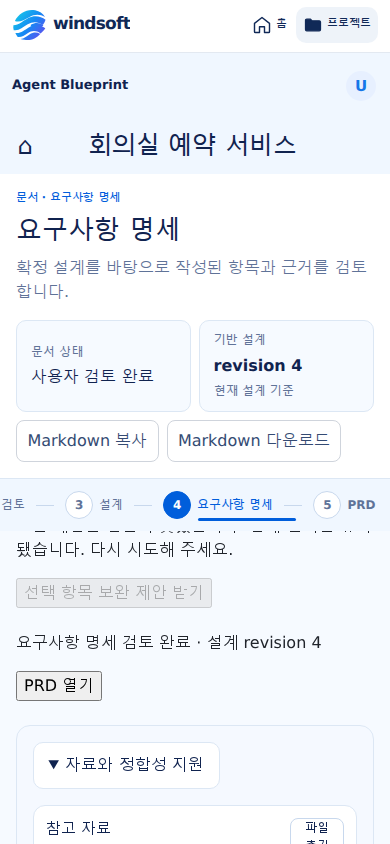
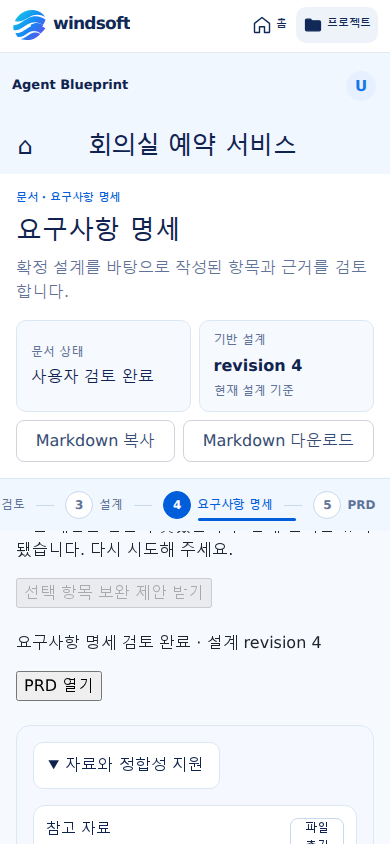
Refresh responsive document flow evidence

Changed region(s): [[0.0615, 0.4929, 0.8923, 0.5545]]

diff --git a/docs/delivery/evidence/UIR-PR-06/README.md b/docs/delivery/evidence/UIR-PR-06/README.md
@@ -1,6 +1,6 @@
 # UIR-PR-06 visual evidence
 
-These screenshots use synthetic local browser fixtures with generic, non-product-specific Korean section markdown. The requirements overview, review-action, readiness, UIR-PR-06, and document-editing state screenshots were regenerated from source commit `9c67b72f5d8c8b2ca0ee25305d7b37ef4619f10f` at 1440×900 desktop and 390×844 mobile CSS viewports. The direct-edit impact dialog was recaptured at application source commit `94bfdce` with Korean-only synthetic document text. The final affected Playwright matrix passed 30/30. The main requirements overview shows a `review_required` document with the Korean `요구사항 명세` title, 11 individually navigable localized sections, linked requirement data, step 4 current, and PRD as separate next step 5. The enabled review action uses the workspace primary color; because it follows the selected 11 sections, it is below the initial viewport and is captured after scrolling. The complete evidence set, including interaction-state captures, is stored under `docs/delivery/evidence/UIR-PR-06/`; raw Playwright artifacts remain under `.pr-artifacts/UIR-PR-06/`.
+These screenshots use synthetic local browser fixtures with generic, non-product-specific Korean section markdown. The requirements overview, review-action, readiness, UIR-PR-06, and document-editing state screenshots were recaptured from application source commit `0801b11` at 1440×900 desktop and 390×844 mobile CSS viewports. The direct-edit impact dialog uses Korean-only synthetic document text; its internal document identifier is not exposed. The final affected Playwright matrix passed 30/30. The main requirements overview shows a `review_required` document with the Korean `요구사항 명세` title, 11 individually navigable localized sections, linked requirement data, step 4 current, and PRD as separate next step 5. The enabled review action uses the workspace primary color; because it follows the selected 11 sections, it is below the initial viewport and is captured after scrolling. Export actions use a separate header row at these widths so both buttons remain fully visible. The complete evidence set, including interaction-state captures, is stored under `docs/delivery/evidence/UIR-PR-06/`; raw Playwright artifacts remain under `.pr-artifacts/UIR-PR-06/`.
 
 Primary references: [Requirements dashboard](../../../blueprint-design/회의실%20예약%20서비스%20요구사항%20대시보드.png) and [PRD dashboard](../../../blueprint-design/한국어%20PRD%20대시보드%20화면.png), both 1586×992. Template captures were used only to verify requirements draft/overview/detail and PRD generation states absent from the primary images.
 
@@ -38,7 +38,7 @@ The evidence set also includes direct editor and impact-dialog states, source-re
 
 ![Document impact dialog desktop](document-impact-dialog-desktop-1440x900.png)
 
-![Document impact dialog mobile](document-impact-dialog-mobile-390x844.png) The PRD editor mobile capture and desktop/mobile impact dialogs were regenerated at PR #55 HEAD; the dialog fixtures use Korean text, and affected document IDs are summarized as a Korean count while persisted IDs remain unchanged. Unrelated evidence states were retained.
+![Document impact dialog mobile](document-impact-dialog-mobile-390x844.png) The PRD editor mobile capture and desktop/mobile impact dialogs were regenerated at PR #55 HEAD `0801b11`; the dialog fixtures use Korean text, and affected document IDs are summarized as a Korean count while persisted IDs remain unchanged. Unrelated evidence states were retained.
 
 ## Primary-reference anchor comparison
 
@@ -48,13 +48,13 @@ Approximate measurements use the source and refreshed render screenshots without
 | --- | ---: | ---: | ---: |
 | Left application rail edge | x≈253 / 1586 (16.0%) | x≈248 / 1440 (17.2%) | +1.2 percentage points |
 | Table of contents width | ≈241 / 1586 (15.2%) | ≈230 / 1440 (16.0%) | +0.8 percentage points |
-| Stage navigation top | y≈214 / 992 (21.6%) | y≈218 / 900 (24.2%) | +2.6 percentage points; shared project-title/save row remains above it |
-| First section card top | y≈263 / 992 (26.5%) | y≈275 / 900 (30.6%) | +4.1 percentage points, within the 5% position tolerance |
+| Stage navigation top | y≈214 / 992 (21.6%) | y≈266 / 900 (29.6%) | +8.0 percentage points; a second metadata row keeps both export actions fully visible at 1440px |
+| First section card top | y≈263 / 992 (26.5%) | y≈323 / 900 (35.9%) | +9.4 percentage points; the added export row is a documented layout exception to keep both actions reachable |
 | First section card width | ≈1021 / 1586 (64.4%) | ≈892 / 1440 (61.9%) | −2.5 percentage points |
 | First section card height | ≈119 / 992 (12.0%) | ≈115 / 900 (12.8%) | +0.8 percentage points |
 | Review-completion action | Near the bottom of the five-card reference | After all 11 sections; below the initial viewport at 1440×900 and 390×844 | Deliberate 11-section choice; enabled action is reached and captured after scrolling |
 
-The anchor comparison uses the review-pending state. Its 11-section layout intentionally keeps one navigable card for each canonical section, placing the review action after the full list. The screenshots and test show that the blue action is enabled and reachable after scrolling on both viewports. Cards follow the reference hierarchy with an icon, Korean title and markdown summary, stored sync-status badge, content and linked requirement area, and detail action. Status derives from stored section sync state, and linked requirements are matched from source IDs. Additional markdown lines and linked requirement data appear in the content area; when neither exists, the concise empty state reads `연결된 항목 없음`. No sample product claims are added. The rendered card tops are about 36px below the proportional source coordinate at a 900px viewport height. The shared project title/save row and numbered stage navigation remain visible; the duplicate document work-panel title was removed. The requirements route marks `요구사항 명세` step 4 current; PRD remains a separate next step 5. The active stage label is automatically revealed in the horizontally scrollable navigation on mobile. All 11 canonical section keys appear with Korean presentation labels and persisted data is unchanged.
+The anchor comparison uses the review-pending state. Its 11-section layout intentionally keeps one navigable card for each canonical section, placing the review action after the full list. At 1440px the export buttons occupy a separate metadata row because their combined intrinsic width clipped the download control in the original single-row layout; the updated E2E test verifies both button bounds remain inside the viewport. This increases the header height and shifts the stage rail and section list down as recorded above. The screenshots and test show that the blue action is enabled and reachable after scrolling on both viewports. Cards follow the reference hierarchy with an icon, Korean title and markdown summary, stored sync-status badge, content and linked requirement area, and detail action. Status derives from stored section sync state, and linked requirements are matched from source IDs. Additional markdown lines and linked requirement data appear in the content area; when neither exists, the concise empty state reads `연결된 항목 없음`. No sample product claims are added. The rendered card tops are about 36px below the proportional source coordinate at a 900px viewport height. The shared project title/save row and numbered stage navigation remain visible; the duplicate document work-panel title was removed. The requirements route marks `요구사항 명세` step 4 current; PRD remains a separate next step 5. The active stage label is automatically revealed in the horizontally scrollable navigation on mobile. All 11 canonical section keys appear with Korean presentation labels and persisted data is unchanged.
 
 Requirements and PRD use one document H1, H2 for overview and selected document sections, and H3 for nested section cards and requirement items. The semantic heading correction retains the prior rendered font scale. Sections marked conflict provide resolution guidance and do not expose direct edit or AI patch-target controls.
 

diff --git a/docs/tasks/UIR-PR-06/test-results.md b/docs/tasks/UIR-PR-06/test-results.md
@@ -12,6 +12,13 @@ The independent review P1s were addressed before re-review: all Requirements/PRD
 
 Source commit: `9c67b72f5d8c8b2ca0ee25305d7b37ef4619f10f`, based on PR #55 previous head `ebefae5f215b72b9db9c9d80717b15dcc4d64019`. The final affected Playwright matrix passed **30/30** at 1440×900 and 390×844; this includes a computed-style assertion for the review CTA. `npm run build` and `git diff --check` passed. The source-upload unit failure and Mermaid runtime result are unchanged from the post-merge run recorded below. The screenshots in `docs/delivery/evidence/UIR-PR-06/` were generated from the same source tree as this commit.
 
+
+## Export visibility correction — 2026-10-25
+
+The fresh reviewer found the Markdown download action clipped beyond the right edge of the 1440px workspace. The metadata grid now places export actions on a second row at intermediate desktop widths. The E2E flow asserts both export buttons are visible and that their bounds remain inside the viewport at 1440×900 and 390×844. Review-pending overview, after-scroll review action, requirements/PRD conflict and detail states, and impact-dialog captures were refreshed at application source commit `0801b11`. The desktop stage rail and first section card move down because of the added export row; the anchor table records this deliberate usability exception.
+
+The full affected Playwright matrix passed **30/30** at commit `0801b11`, with a production build in its isolated webServer setup. It exercises generation, 11-section navigation, edit and save, impact confirmation, partial patch and approval, ready confirmation and PRD gating, export, source/evidence/download, and guide flows. Browser automation uses Playwright Chromium; Agent Browser is unavailable in the tool catalog and PATH. Fresh independent code review and QA remain pending on the evidence-updated HEAD.
+
 ## Post-merge visual correction — 2026-10-24
 
 PR #54 was merged as `42f5bc763f76a571329f0d9bfd600be11ed01f39`. The visual correction is on follow-up commit `53a358241a42341373388f734134f68dba0fa3e5`, based on that latest `origin/main`. Its screenshots and rendered UI use 11 Korean-labeled sections, active step 4 `요구사항 명세`, PRD as separate step 5, actual linked section data, and accessible names with no English `Requirement(s)` text.
